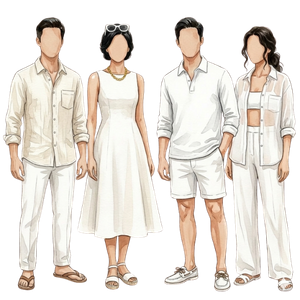
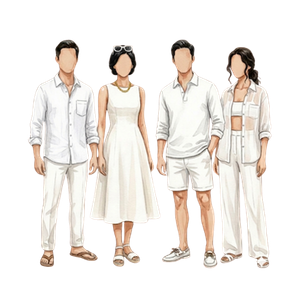
revision round 2

diff --git a/src/components/pages/Moments.jsx b/src/components/pages/Moments.jsx
@@ -53,7 +53,12 @@ const Moments = () => {
     '/assets/images/prenup/img4.jpeg',
     '/assets/images/prenup/img5.jpg',
     '/assets/images/prenup/img6.jpg',
-    '/assets/images/prenup/img7.jpg'
+    '/assets/images/prenup/img7.jpg',
+    '/assets/images/prenup/added/HAIWE5388.JPG',
+    '/assets/images/prenup/added/IMG_4217.JPG',
+    '/assets/images/prenup/added/IMG_4841.jpg',
+    '/assets/images/prenup/added/IMG_5074.JPG',
+    '/assets/images/prenup/added/ISE09955.png'
   ]
 
   // Images array for the lightbox (includes all images in same order, excluding img2.jpg)
@@ -63,7 +68,12 @@ const Moments = () => {
     '/assets/images/prenup/img4.jpeg',
     '/assets/images/prenup/img5.jpg',
     '/assets/images/prenup/img6.jpg',
-    '/assets/images/prenup/img7.jpg'
+    '/assets/images/prenup/img7.jpg',
+    '/assets/images/prenup/added/HAIWE5388.JPG',
+    '/assets/images/prenup/added/IMG_4217.JPG',
+    '/assets/images/prenup/added/IMG_4841.jpg',
+    '/assets/images/prenup/added/IMG_5074.JPG',
+    '/assets/images/prenup/added/ISE09955.png'
   ]
 
   // Gallery images for horizontal scroll (excluding img2.jpg which is used as polaroid)
@@ -73,7 +83,12 @@ const Moments = () => {
     '/assets/images/prenup/img4.jpeg',
     '/assets/images/prenup/img5.jpg',
     '/assets/images/prenup/img6.jpg',
-    '/assets/images/prenup/img7.jpg'
+    '/assets/images/prenup/img7.jpg',
+    '/assets/images/prenup/added/HAIWE5388.JPG',
+    '/assets/images/prenup/added/IMG_4217.JPG',
+    '/assets/images/prenup/added/IMG_4841.jpg',
+    '/assets/images/prenup/added/IMG_5074.JPG',
+    '/assets/images/prenup/added/ISE09955.png'
   ]
 
   // Polaroid images for the scrollable container

diff --git a/src/components/pages/Entourage.jsx b/src/components/pages/Entourage.jsx
@@ -493,7 +493,6 @@ const Entourage = () => {
                   <div className="flex flex-row gap-4 sm:gap-6 justify-center items-start">
                     {/* NINONG Column */}
                     <div className="flex-1">
-                      <p className="text-[11px] sm:text-[14px] md:text-[16px] lg:text-[18px] caudex-bold mb-2 whitespace-nowrap text-right uppercase" style={{ color: '#A06061' }}>NINONG</p>
                       <div className="space-y-2">
                         {ninongs.map((name, index) => (
                           <p key={index} className="ninong-item text-[9.5px] sm:text-[13px] md:text-[15px] lg:text-[17px] font-poppins uppercase text-[#333333] text-right whitespace-nowrap">
@@ -504,7 +503,6 @@ const Entourage = () => {
                     </div>
                     {/* NINANG Column - Paired */}
                     <div className="flex-1">
-                      <p className="text-[11px] sm:text-[14px] md:text-[16px] lg:text-[18px] caudex-bold mb-2 whitespace-nowrap text-left uppercase" style={{ color: '#A06061' }}>NINANG</p>
                       <div className="space-y-2">
                         {pairedNinangs.map((name, index) => (
                           <p key={index} className="ninang-item text-[9.5px] sm:text-[13px] md:text-[15px] lg:text-[17px] font-poppins uppercase text-[#333333] text-left whitespace-nowrap">

diff --git a/src/components/NavIndex.jsx b/src/components/NavIndex.jsx
@@ -299,9 +299,10 @@ const NavIndex = ({ onOpenRSVP }) => {
               className="bg-white relative polaroid-container"
             >
               <img 
-                src="/assets/images/prenup/img7.jpg" 
+                src="/assets/images/prenup/added/ISE09955.png" 
                 alt="Prenup photo" 
                 className="w-full object-cover polaroid-image"
+                style={{ objectPosition: 'center bottom' }}
               />
               
               {/* Flower 3 - Bottom Left (above the image) */}

diff --git a/src/components/DressCode.jsx b/src/components/DressCode.jsx
@@ -15,8 +15,7 @@ const DressCode = () => {
   
   const colorNames = {
     '#FFFFFF': 'Pure White',
-    '#F5F5F0': 'Soft Ivory',
-    '#E8E2D8': 'Warm Cream'
+    '#F5F5F0': 'Soft Ivory'
   }
 
   useEffect(() => {
@@ -127,7 +126,7 @@ const DressCode = () => {
     }
   }, [])
 
-  const whiteColors = ['#FFFFFF', '#F5F5F0', '#E8E2D8']
+  const whiteColors = ['#FFFFFF', '#F5F5F0']
 
   return (
     <div className="relative pb-20 sm:pb-24 md:pb-32 attire-section">
